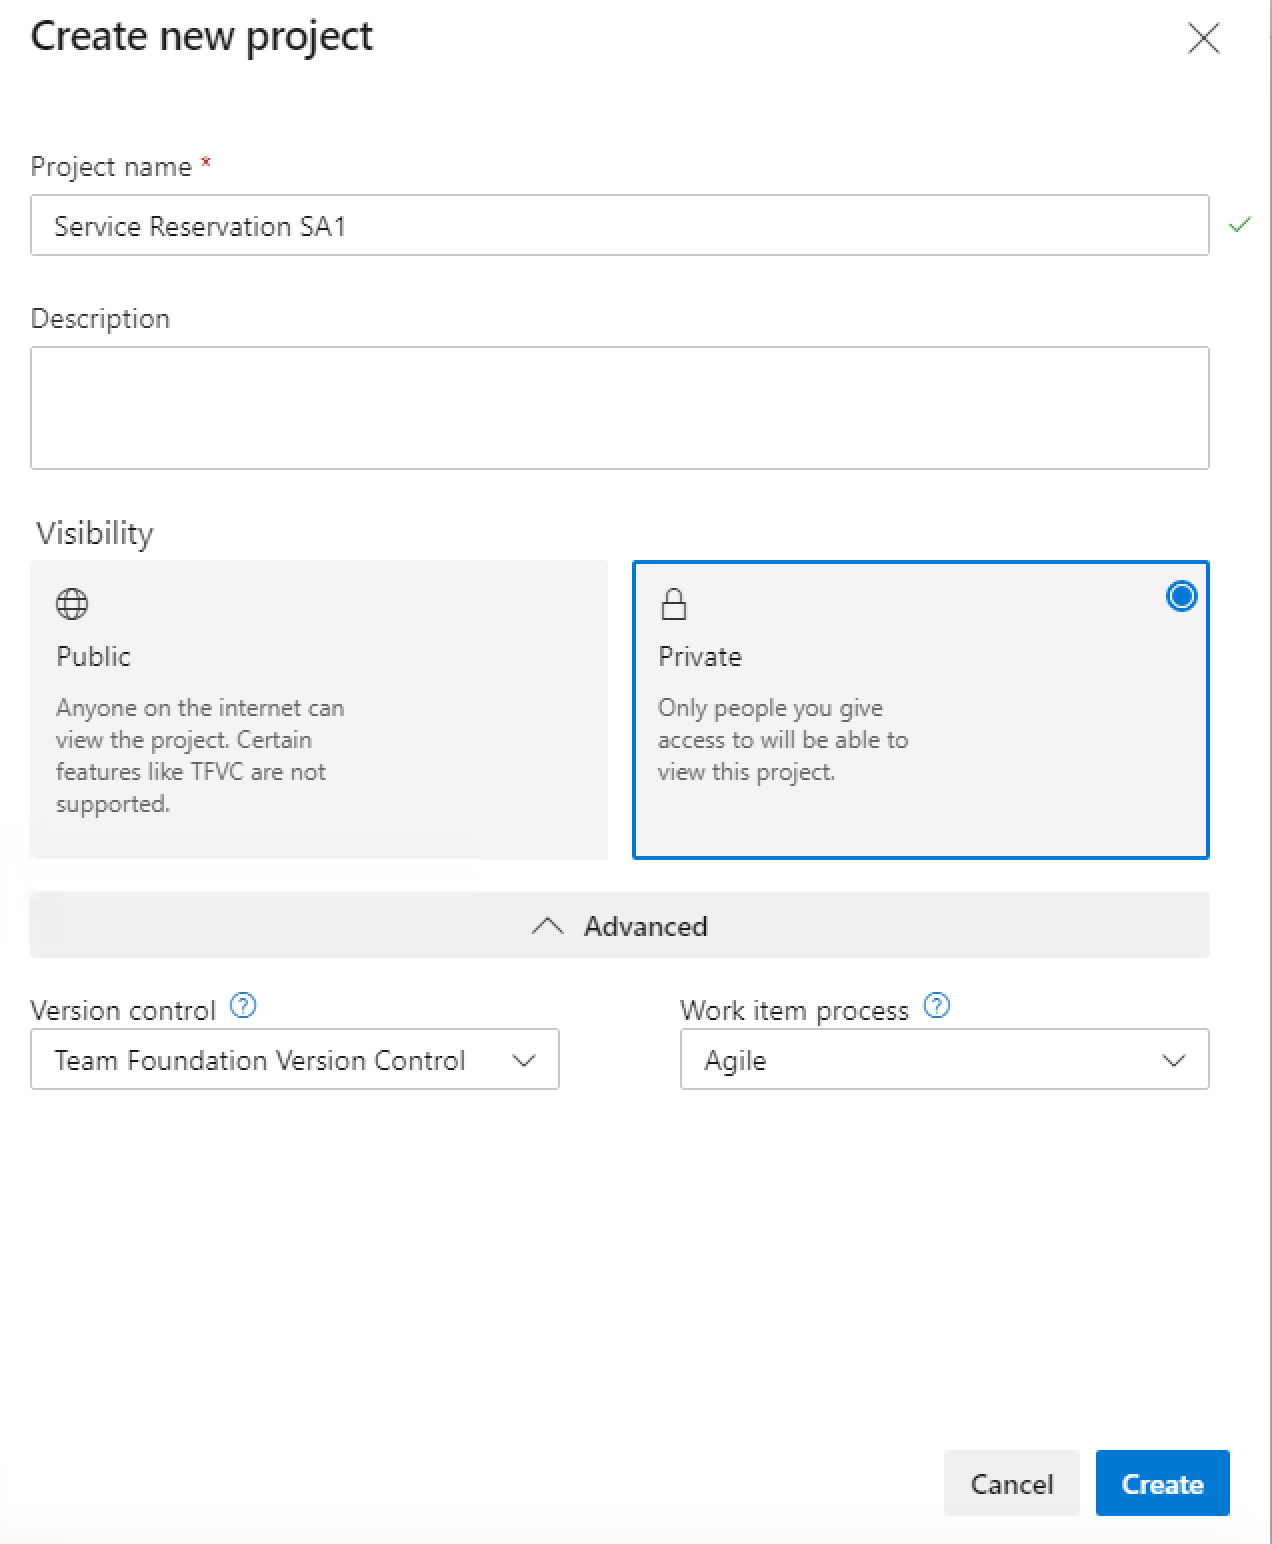
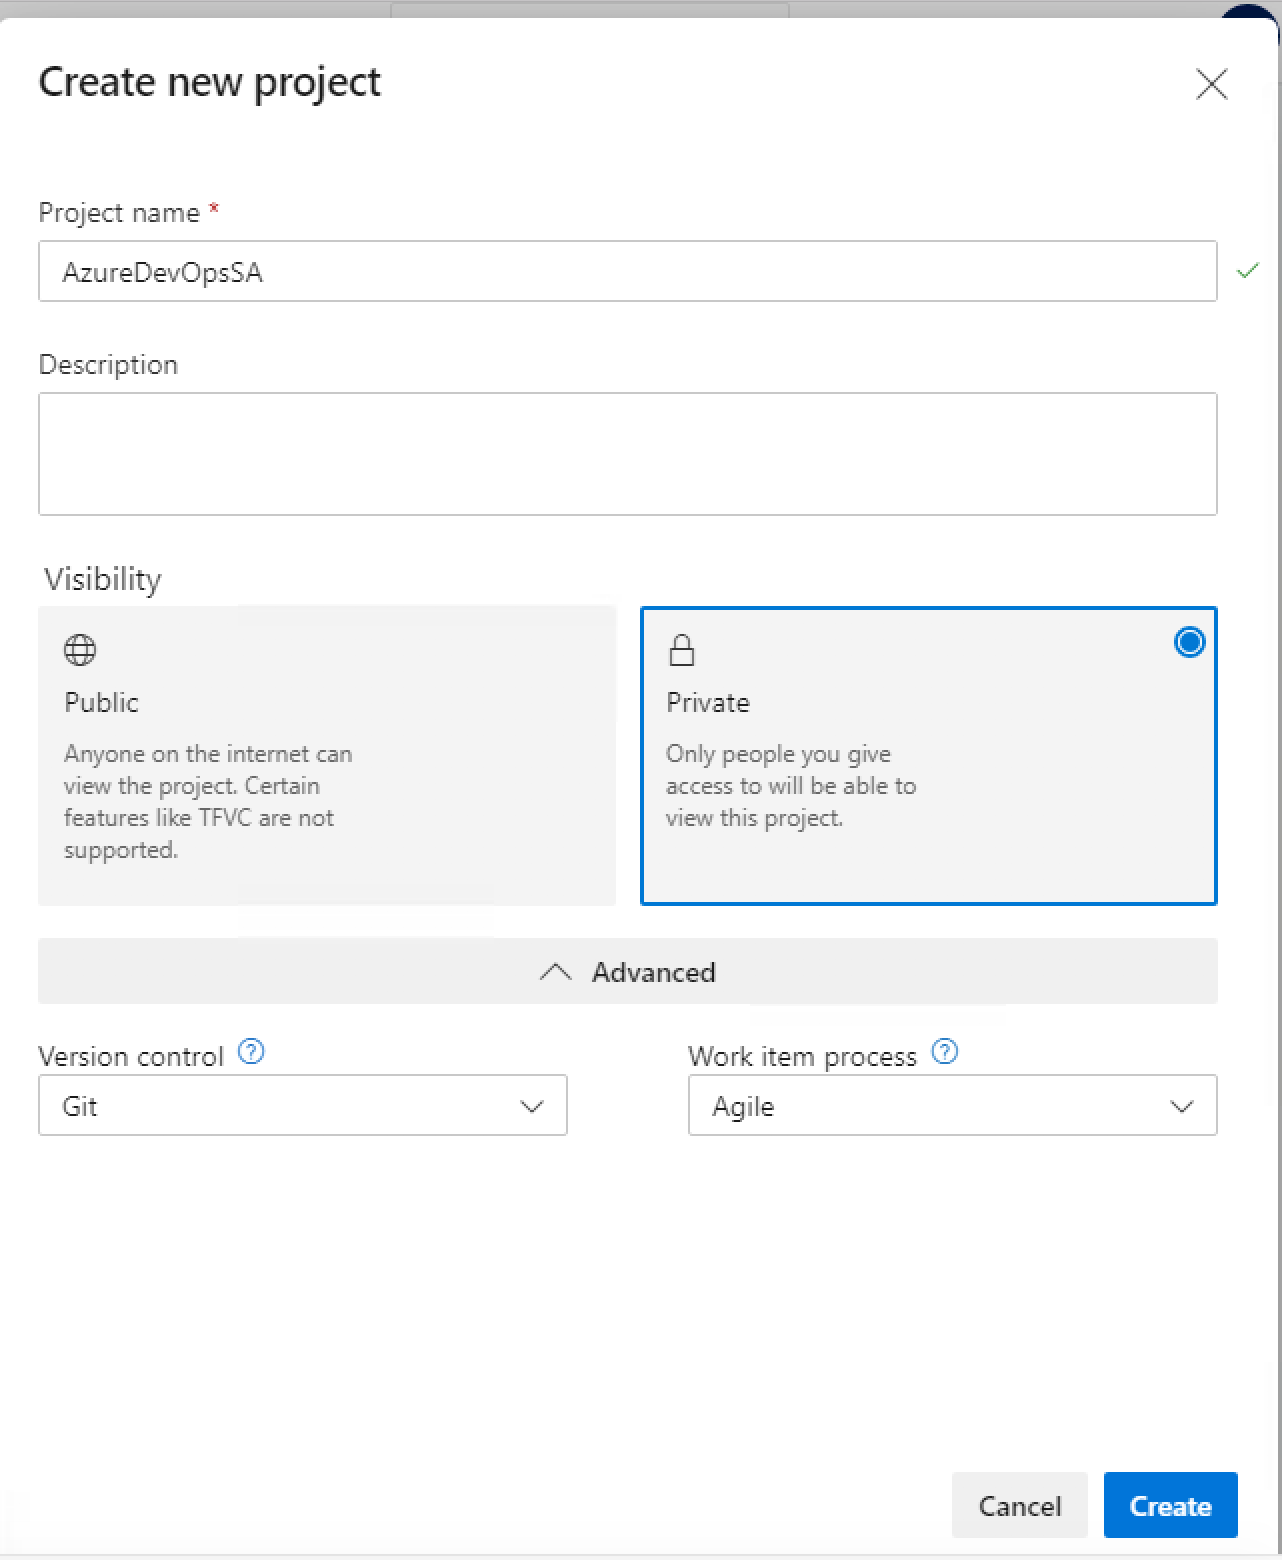
first

diff --git a/cicd_ex.md b/cicd_ex.md
@@ -26,15 +26,18 @@ This will take you to the home page of Azure DevOps.
 <kbd><img src="images/home.png" alt="drawing" width="500"/></kbd>
 
 
+### 3. Fork git project
+Source project:- ```https://github.com/shekhar2010us/pipeline-java```
 
-### 3. Create a Azure DevOps Project
+
+### 4. Create a Azure DevOps Project
 
 By providing the following attributes
 
 ```
-Project name: ServiceReservation<your_name>
+Project name: AzureDevOps<your_name>
 * choose private *
-Version Control: Team Foundation Version Control
+Version Control: Git
 Work Item process: Agile
 ```
 
@@ -43,7 +46,7 @@ Work Item process: Agile
 
 ### 4. Add widget
 
-1.	Click on the <b>Dashboards</b> tab, <b>Add Widget</b>, search for <b>Visual Studio Shortcuts</b> and <b>Add</b> it to the dashboard. You may also add couple more widgets in the dashboard.
+1.	Click on the <b>Dashboards</b> tab, <b>Add Widget</b>, search for useful widgets like ```deployment status``` and ```build history```, and add them to dashboard
 2.	After adding all widgets, do <b>done editing</b>
 
 
@@ -61,103 +64,130 @@ Work Item process: Agile
 Go to the <b>Pipelines</b> tab.
 <br>Click the **Create Pipeline** button.
 
-#### Where is your code --> Choose **Team Foundation Version Control**
+#### Where is your code --> Choose **Github**
 
-<kbd><img src="images/tfvc1.png" alt="drawing" width="500"/></kbd>
+<kbd><img src="images/where_is_code.png" alt="drawing" width="500"/></kbd>
 
-#### Select a source  --> Choose **TFVC** again
+#### Authorize github
 
-<kbd><img src="images/tfvc2.png" alt="drawing" width="500"/></kbd>
+<kbd><img src="images/authorize_git.png" alt="drawing" width="500"/></kbd>
 
-#### Select a template --> Search or choose **ASP.NET** project and click Apply
+** Note:- Sometimes, it throws error while authorizing git from azure devops. In that case, open a new tab in the windows virtual machine and sign in your git account.
 
-<kbd><img src="images/asp.net.png" alt="drawing" width="500"/></kbd>
+In that case, the authorization will be easier.
 
-The Build Definition Name property will be set to ```Service Reservations {YourName}-ASP.NET-CI``` by default
-
-
-### 7. Configure the Build Definition
-
-#### 7a. Enable Code coverage
-
-On the **Task** tab, click on **Test Assemblies**. Scroll down until you see the “**Code coverage enabled**” option. Check the corresponding checkbox.
-<br>Click the dropdown next to Save and Queue and Select **Save** to save the Build Definition.
-Note:- **DO NOT ```Save and Queue```**, the build will fail because you do not have any code yet
+<kbd><img src="images/authorize2.png" alt="drawing" width="500"/></kbd>
 
 
-<kbd><img src="images/code_coverage.png" alt="drawing" width="500"/></kbd>
-
-#### 7b. Enable CI Build Trigger
-
-Navigate to the **Triggers** tab. Enable the **Continuous Integration Trigger** by flipping the switch under Enable this Trigger that says “Disabled” to the “Enabled” position.
+#### Select repository
+Choose the project ```pipeline-java```
+<kbd><img src="images/select_repository.png" alt="drawing" width="500"/></kbd>
 
 
-<kbd><img src="images/ci_trigger.png" alt="drawing" width="500"/></kbd>
+
+#### Authorize to create Azure Yaml
+```Approve and Install```
+<kbd><img src="images/azure_yaml.png" alt="drawing" width="500"/></kbd>
+
+To run Github projects in Azure DevOps, Azure use Yaml configuration which needs to reside in the codebase.
 
 
-#### 7c. Enable Gated Checkin Trigger
-
-Navigate to the **Triggers** tab. Enable the **Gated check-in** by checking the box. Leave everything as-is
-
-<kbd><img src="images/gated_checkin.png" alt="drawing" width="500"/></kbd>
-
-<br>Click the dropdown next to Save and Queue and Select **Save** to save the Build Definition.
-Note:- **DO NOT ```Save and Queue```**, the build will fail because you do not have any code yet
+#### Configure Pipeline
+```Choose Maven```
+<kbd><img src="images/maven.png" alt="drawing" width="500"/></kbd>
 
 
-#### 7d. Enable Bug Task on Build Failure
-
-Navigate to the **Options** tab. Enable **Create work item on failure**. Default option is to create a bug and assign to the requestor, leave as-is
-
-<kbd><img src="images/bug_task.png" alt="drawing" width="500"/></kbd>
-
-<br>Click the dropdown next to Save and Queue and Select **Save** to save the Build Definition.
-Note:- **DO NOT ```Save and Queue```**, the build will fail because you do not have any code yet
-
-Finally click on the Pipelines again to see the list of build pipelines. Since the pipeline has not been run yet, it will show ```no runs yet```
-
-<kbd><img src="images/no_runs_yet.png" alt="drawing" width="500"/></kbd>
-<br><br>
-
-### 8. Create a new ASP.NET MVC project
-
-1. Go to ```Dashboards```, Under widget Visual Studio, choose the ```Open in Visual Studio``` 
-2. If the dialogue box pops up, select ```Visual Studio Version selector```. This will open Visual Studio 2017 in the Windows virtual machine.
-3. If it complains about credentials, login using the same credential that you used for azure devops. ```Username: DevOpsStudent@Outlook.com``` and ```Password: JustM300```
-4. Click on ```File``` -> ```New Project```
-5. Choose ```ASP.NET Web Application (.Net Framework)``` as the framework
-6. Name the project ```Service Reservation WebUI```
-7. In the Solution name field, ```remove WebUI``` so it reads as ```Service Reservation``` only, and click OK.
-8. When the next dialogue box pops up, choose the ```MVC``` option
-9. Check the ```Add unit tests``` checkbox
-10. Click on the ```Change Authentication``` button, and select the ```Individual user accounts``` option by clicking the radial button. 
-
-*** Make sure you have the **MVC** checkbox & **Add unit tests** checked, and click **OK**
+#### Review your Pipeline Yaml
+```Save``` -- Just save, do not **Save & Run** yet
+<kbd><img src="images/review_pipeline.png" alt="drawing" width="500"/></kbd>
 
 
-### 9. Run unit test locally
 
-1. **Go to Test** -> **run all test**
-2. Go to **Test explorer** -> all three unit test passed
+### 7. Check and Run the Build Manually
+```Run the Pipeline```
+<kbd><img src="images/run_pipeline.png" alt="drawing" width="500"/></kbd>
 
+<kbd><img src="images/monitor_pipeline.png" alt="drawing" width="500"/></kbd>
 
-### 10. Register a user
-So it will create an entry in the database
-
-1. **Go to IIS Express (Google chrome)**. This will open the app in Google chrome
-2. ```Register``` a user -> provide ```email``` and ```password```
-3. Close the browser window to stop the debugging
+Wait until the job is finished and check logs
 
 
-### 11. Configure Build Tools
+### 8. Change the code in git
 
-#### 11a. Review Database Setting in web.config
-1. In the ```Service Reservation WebUI``` project, check ```Web.config``` file.
-2. Look for a connection object similar to this ```connectionString="Data Source=(LocalDb)\MSSQLLocalDB;AttachDbFilename=&quot;|DataDirectory|\aspnet-Service Reservation WebUI-20200123020255.mdf```, and note down WebUI-20200123020255
-3. In the ```SQL Server Object Explorer```, navigate menus under ```localdb``` -> ```databases``` until you reach the same database mentioned in ```Web.config```
-4. Once you reach the correct database, right click and ```click new project```
-5. Name the database project as ```Service Reservations DB```
-6. browse and save it to the same directory where you have ```Service Reservation```.. It might be ```C:\Users\Administrator\source\repos\Service Reservation```
-7. 
- 
- 
+If you change anything in the codebase and check-in your code, a build will be automatically triggered
+
+<kbd><img src="images/auto.png" alt="drawing" width="500"/></kbd>
+
+
+### 9. Define Release Pipeline
+#### 9a.
+```Pipelines --> Release --> New Pipeline```
+
+#### 9b. 
+Apply ```Azure App Service Deployment```
+
+<kbd><img src="images/release1.png" alt="drawing" width="500"/></kbd>
+
+#### 9c.
+Click on ```Stage 1```
+<br>Authorize azure.com
+
+<kbd><img src="images/release2.png" alt="drawing" width="500"/></kbd>
+
+```
+# use these credential
+Username: DevOpsStudent@Outlook.com
+Password: JustM300
+```
+
+Other parameters in the form
+
+```
+App Type: Web App on Linux 
+App Service Name: srsa
+```
+
+and
+```save```
+
+<kbd><img src="images/release3.png" alt="drawing" width="500"/></kbd>
+
+
+#### 9d. Setup the artifact
+click on pipeline again and ```Add an artifact```
+
+<kbd><img src="images/artifact1.png" alt="drawing" width="500"/></kbd>
+
+<kbd><img src="images/artifact2.png" alt="drawing" width="500"/></kbd>
+
+
+#### 9e. Turn on Continuous Deployment Trigger
+
+<kbd><img src="images/cd trigger.png" alt="drawing" width="500"/></kbd>
+
+and ```save```
+
+
+#### 9f. Create Release
+Choose all stages you want in the release. In this case, we only have stage 1
+
+<kbd><img src="images/create_release.png" alt="drawing" width="500"/></kbd>
+
+```create```
+
+
+#### 9g. Manual Deploy
+Pipelines --> Releases --> Release-1
+```deploy```
+<kbd><img src="images/manual_deploy.png" alt="drawing" width="500"/></kbd>
+
+
+```Check stage logs```
+
+
+
+### 9. CICD
+
+Now if you change any code in git, this will trigger auto CI and auto CD
+
+TEST!!!!
